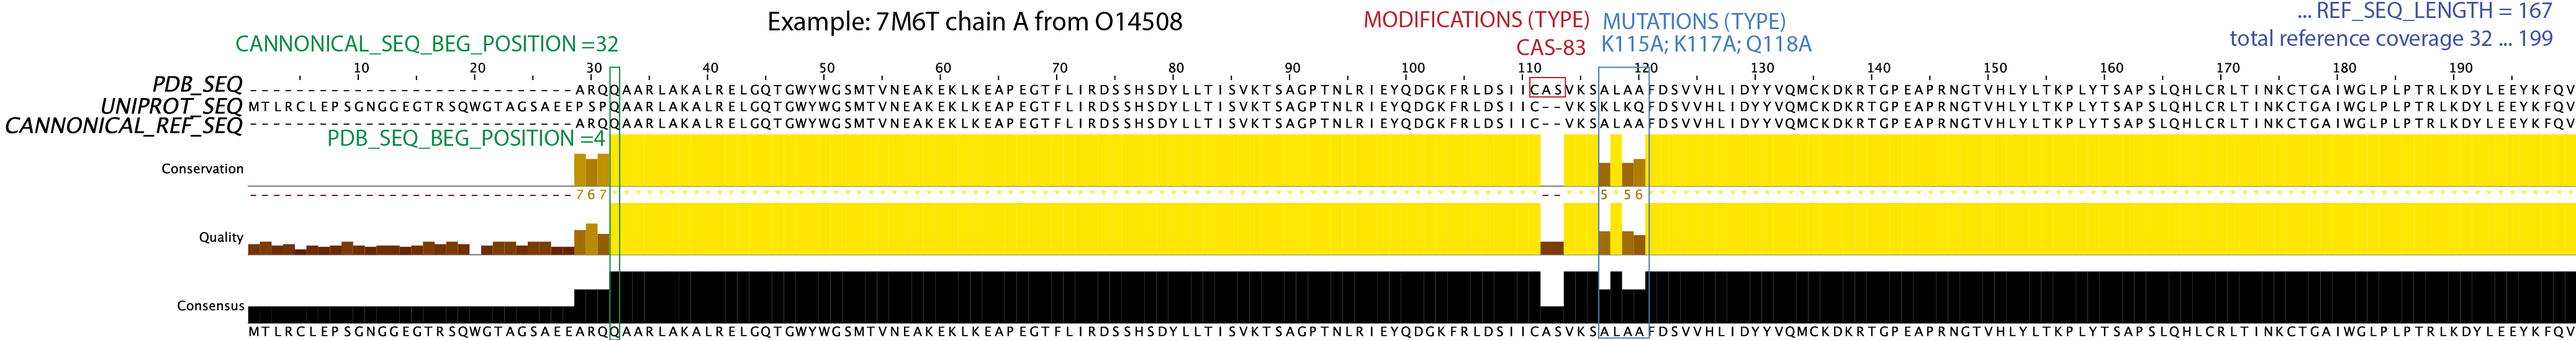
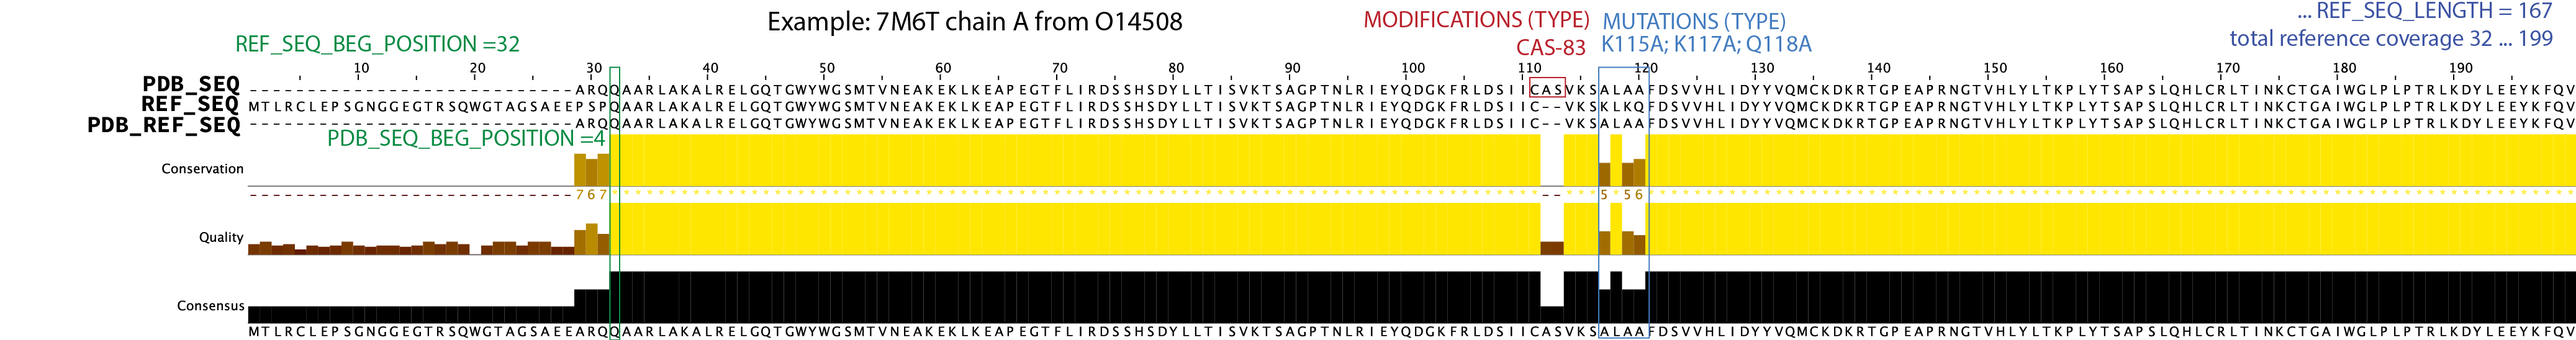
Closes #25, updated files, tested, and fixed documentation making the column names in PDB a little more clear (and fixing a typo)

Changed region(s): [[0.0, 0.2172, 0.0933, 0.4033], [0.0933, 0.0931, 0.2487, 0.1551]]

diff --git a/CoDIAC/PDB.py b/CoDIAC/PDB.py
@@ -86,9 +86,9 @@ class PDB_interface:
 
         """
         columns = ['PDB_ID', 'ENTITY_ID', 'ENTITY_DESCRIPTION', 'CHAIN_ID', 'DATABASE', 'GENE_NAME', 
-                   'ACCESS', 'PDB_SEQ', 'UNIPROT_SEQ', 'CHAIN_LENGTH', 'POLYMER_TYPE', 'MACROMOLECULAR_TYPE', 
-                   'MOLECULAR_WEIGHT', 'EXPERIMENT_TYPE', 'RESOLUTION', 'CANNONICAL_REF_SEQ', 
-                   'PDB_SEQ_BEG_POSITION', 'CANNONICAL_SEQ_BEG_POSITION','REF_SEQ_LENGTH',
+                   'ACCESS', 'PDB_SEQ', 'REF_SEQ', 'CHAIN_LENGTH', 'POLYMER_TYPE', 'MACROMOLECULAR_TYPE', 
+                   'MOLECULAR_WEIGHT', 'EXPERIMENT_TYPE', 'RESOLUTION', 'PDB_REF_SEQ', 
+                   'PDB_SEQ_BEG_POSITION', 'REF_SEQ_BEG_POSITION','REF_SEQ_LENGTH',
                    'SPECIES', 'MUTATIONS/MODS (Y/N)', 'MUTATIONS/MODS (#)', 'MUTATIONS (LOCATION)',
                    'MUTATIONS (TYPE)', 'MODIFICATIONS (LOCATION)', 'MODIFICATIONS (TYPE)', 'DEPOSITED (DATE)', 
                    'DEPOSITED (AUTHORS)', 'TITLE', 'DOI', 'PUBMED_ID']
@@ -160,9 +160,9 @@ class PDB_interface:
         """
 
         meta_data_categories = ['PDB_ID', 'ENTITY_ID', 'ENTITY_DESCRIPTION', 'CHAIN_ID', 'DATABASE', 'GENE_NAME', 'ACCESS', 
-                                'PDB_SEQ', 'UNIPROT_SEQ', 'CHAIN_LENGTH', 'POLYMER_TYPE', 'MACROMOLECULAR_TYPE', 'MOLECULAR_WEIGHT',
-                                'EXPERIMENT_TYPE', 'RESOLUTION', 'CANNONICAL_REF_SEQ', 'PDB_SEQ_BEG_POSITION', 
-                                'CANNONICAL_SEQ_BEG_POSITION', 'REF_SEQ_LENGTH', 'SPECIES', 'MUTATIONS/MODS (Y/N)', 'MUTATIONS/MODS (#)', 
+                                'PDB_SEQ', 'REF_SEQ', 'CHAIN_LENGTH', 'POLYMER_TYPE', 'MACROMOLECULAR_TYPE', 'MOLECULAR_WEIGHT',
+                                'EXPERIMENT_TYPE', 'RESOLUTION', 'PDB_REF_SEQ', 'PDB_SEQ_BEG_POSITION', 
+                                'REF_SEQ_BEG_POSITION', 'REF_SEQ_LENGTH', 'SPECIES', 'MUTATIONS/MODS (Y/N)', 'MUTATIONS/MODS (#)', 
                                 'MUTATIONS (LOCATION)', 'MUTATIONS (TYPE)','MODIFICATIONS (LOCATION)', 'MODIFICATIONS (TYPE)', 
                                 'DEPOSITED (DATE)', 'DEPOSITED (AUTHORS)', 'TITLE', 'DOI', 'PUBMED_ID']
 
@@ -428,7 +428,7 @@ class PDB_interface:
                     return PDB_SEQ
                 except KeyError:
                     return 'not found'
-            elif (attribute == 'UNIPROT_SEQ'):
+            elif (attribute == 'REF_SEQ'):
                 try:
                     uniprot_entity_dict = self.overall_uniprot_dict[polymer_entity_id]
                     SEQ = ''
@@ -496,7 +496,7 @@ class PDB_interface:
             #         return SEQ[beg_number:end_number]
             #     except KeyError:
             #         return 'not found'
-            elif (attribute == 'CANNONICAL_REF_SEQ'):
+            elif (attribute == 'PDB_REF_SEQ'):
                 try:
                     SEQ = ''
                     if len(polymer_entity_dict) > 3:
@@ -531,7 +531,7 @@ class PDB_interface:
                     return str(middle2['entity_beg_seq_id'])
                 except KeyError:
                     return 'not found'
-            elif (attribute == 'CANNONICAL_SEQ_BEG_POSITION'):
+            elif (attribute == 'REF_SEQ_BEG_POSITION'):
                 try:
                     if len(polymer_entity_dict) > 3:
                         entity_align = polymer_entity_dict['rcsb_polymer_entity_align']

diff --git a/CoDIAC/IntegrateStructure_Reference.py b/CoDIAC/IntegrateStructure_Reference.py
@@ -404,8 +404,8 @@ def add_reference_info_to_struct_file(struct_file, ref_file, out_file, INTERPRO=
 
     for index, row in struct_df.iterrows():
         uniprot_id = row['ACCESS']
-        struct_seq = row['CANNONICAL_REF_SEQ']
-        ref_seq_pos_start = row['CANNONICAL_SEQ_BEG_POSITION']
+        struct_seq = row['PDB_REF_SEQ']
+        ref_seq_pos_start = row['REF_SEQ_BEG_POSITION']
         pdb_seq_pos_start  = row['PDB_SEQ_BEG_POSITION']
         ref_length = row['REF_SEQ_LENGTH']
         if verbose:

diff --git a/References.md b/References.md
@@ -53,9 +53,9 @@ This file contains a myriad of sequences, which arises from the fact that experi
 * MOLECULAR_WEIGHT - The molecular mass (KDa) of polymer and non-polymer entities (exclusive of solvent) in the deposited structure entry
 * EXPERIMENT_TYPE - The category of experimental method(s) used to determine the structure entry.
 * RESOLUTION - Combined estimates of experimental resolution contributing to the refined structural model.Resolution reported in "refine.ls_d_res_high" is used for X-RAY DIFFRACTION, FIBER DIFFRACTION, POWDER DIFFRACTION, ELECTRON CRYSTALLOGRAPHY, and NEUTRON DIFFRACTION as identified in "refine.pdbx_refine_id". Resolution reported in "em_3d_reconstruction.resolution" is used for ELECTRON MICROSCOPY. The best value corresponding to "em_3d_reconstruction.resolution_method" == "FSC 0.143 CUT-OFF" is used, if available. If not, the best "em_3d_reconstruction.resolution" value is used. For structures that are not obtained from diffraction-based methods, the resolution values in "refine.ls_d_res_high" are ignored. Multiple values are reported only if multiple methods are used in the structure determination.
-* CANNONICAL_REF_SEQ - truncated part of UNIPROT_SEQ that aligns with the PDB entity’s sequence (aligned canonical sequence)
+* PDB_REF_SEQ - truncated part of UNIPROT_SEQ that aligns with the PDB entity’s sequence (aligned canonical sequence)
 * PDB_SEQ_BEG_POSITION - points to the position in the entity sequence that aligns with the canonical sequence
-* CANNONICAL_SEQ_BEG_POSITION - points to the position in the canonical sequence that aligns with the entity sequence
+* REF_SEQ_BEG_POSITION - points to the position in the canonical sequence that aligns with the entity sequence
 * REF_SEQ_LENGTH - length of the aligned regions between the entity and canonical sequences
 * SPECIES - Scientific name of the organism from which the gene originates
 * MUTATIONS (Y/N) - Tells us if there are any mutations present in the entity sequence
@@ -70,10 +70,10 @@ This file contains a myriad of sequences, which arises from the fact that experi
 * DOI - Document Object Identifier used by doi.org to uniquely specify bibliographic entry
 * PUBMED_ID - the Pubmed ID for a paper of interest. 
 ### Summary and description of PDB sequences
-* CANONICAL_REF_SEQ is the sequence that was experimentally created, it has been corrected to remove the three letter code of a modification and it has variants that were experimentally used. This sequence will still include non-reference information, like tags or epitopes. In the PDB files, this whole sequence will start at position 1 and go to the end of the sequence. In order to access locations as they relate, you would use the following.
-    * PDB_SEQ_BEG_POSITION (**PDB structure numbering**) - this is the position (ones-based counting) in the CANONICAL_REF_SEQ and the PDB_SEQ where the reference sequences begins to be expressed. 
-    * CANNONICAL_SEQ_BEG_POSITION (**Reference numbering**)- this is the position in the reference sequence where the experimental position picks up. 
-    * The end of the structure sequence that matches the reference can be found by CANNONICAL_SEQ_BEG_POSITION + REF_SEQ_LENGTH
+* PDB_REF_SEQ is the sequence that was experimentally created, it has been corrected to remove the three letter code of a modification and it has variants that were experimentally used. This sequence will still include non-reference information, like tags or epitopes. In the PDB files, this whole sequence will start at position 1 and go to the end of the sequence. In order to access locations as they relate, you would use the following.
+    * PDB_SEQ_BEG_POSITION (**PDB structure numbering**) - this is the position (ones-based counting) in the REF_SEQ and the PDB_SEQ where the reference sequences begins to be expressed. 
+    * REF_SEQ_BEG_POSITION (**Reference numbering**)- this is the position in the reference sequence where the experimental position picks up. 
+    * The end of the structure sequence that matches the reference can be found by PDB_SEQ_BEG_POSITION + REF_SEQ_LENGTH
 ![Example visualization by using alignment of the three sequences in PDB Reference File and how sequence positions are labeled](example_fasta_annot_PDB-01.png)
 
 ## Integrated PDB Reference File
